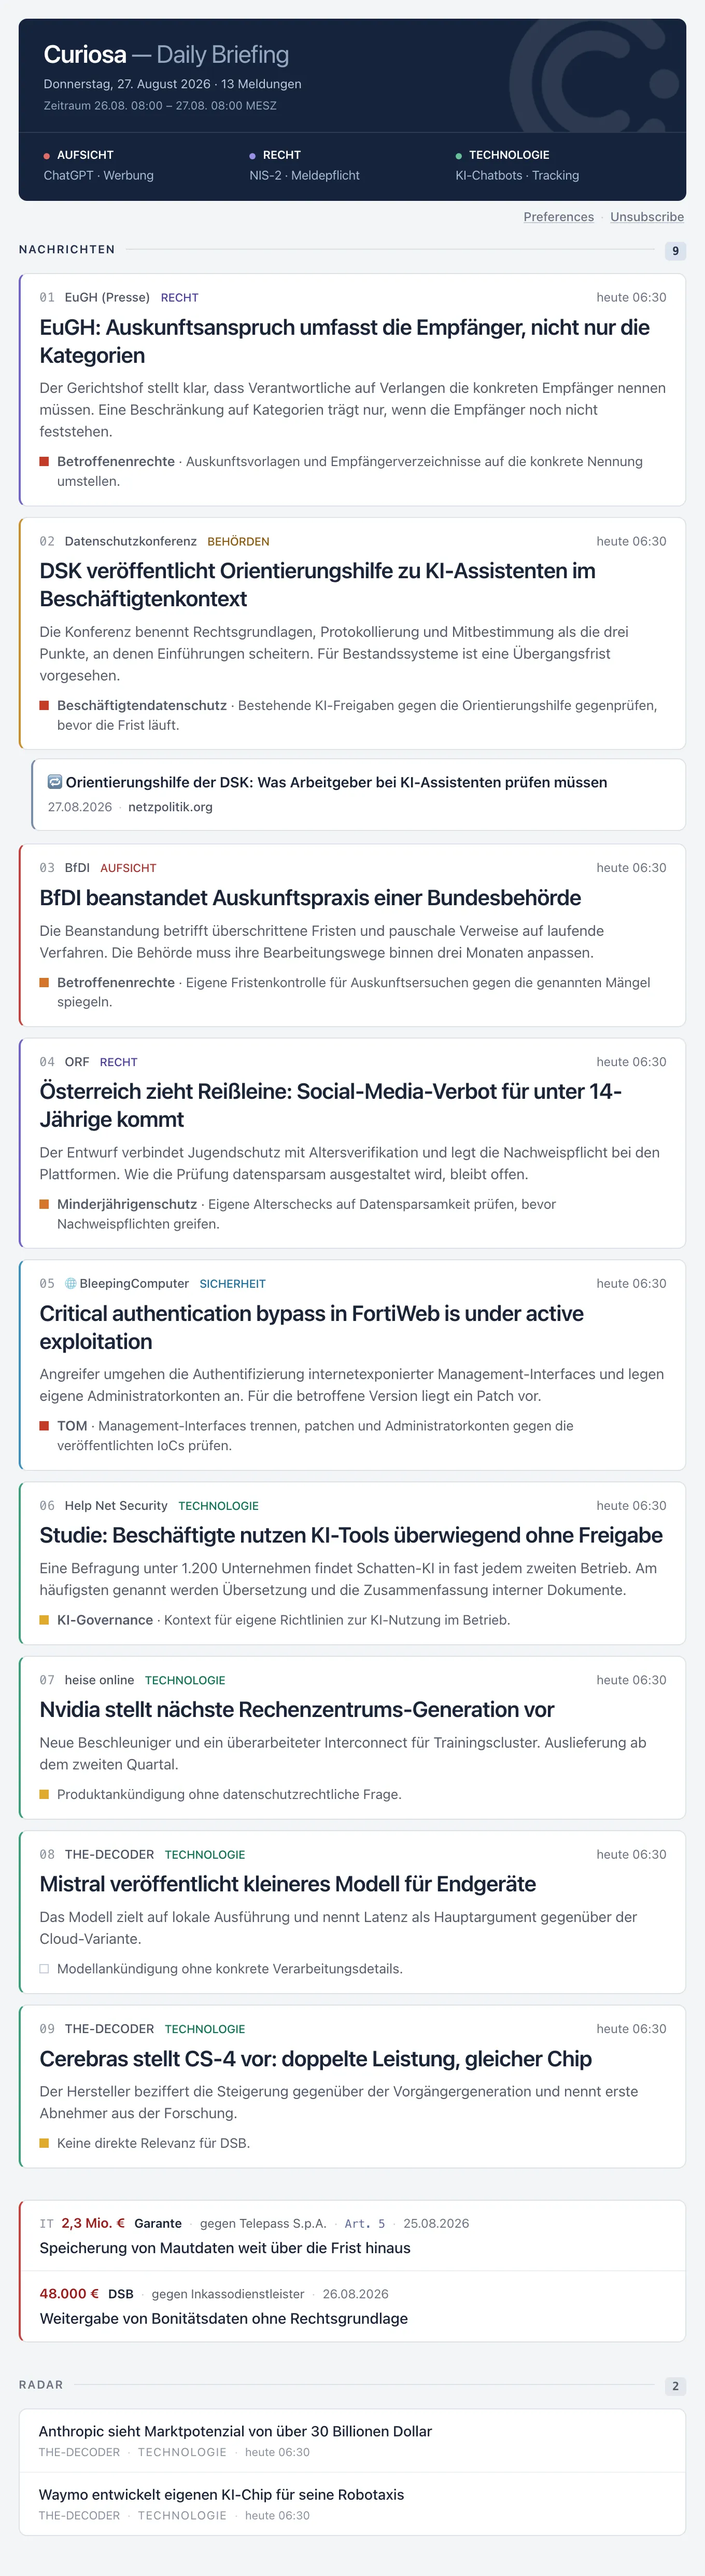
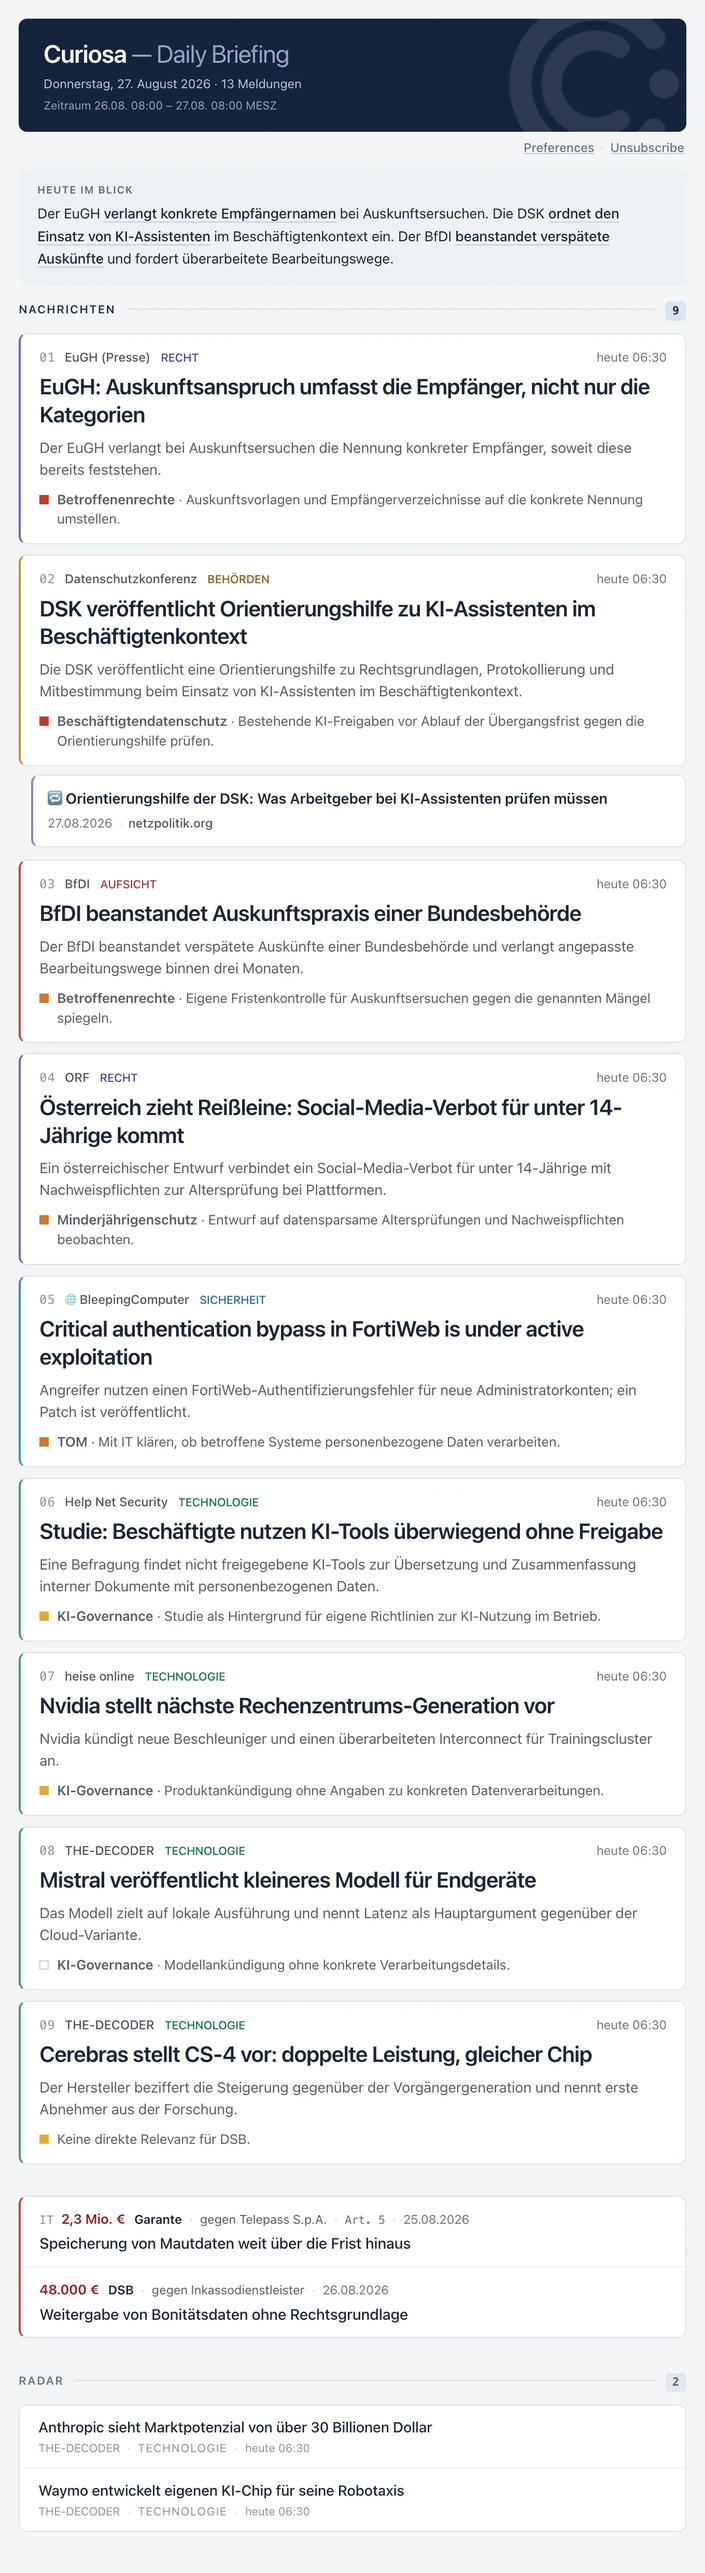
Refresh briefing samples and layout previews for Editorial

diff --git a/index.html b/index.html
@@ -50,38 +50,39 @@
                     </figcaption>
 
                     <div class="sample__sheet">
-                        <img class="sample__page" loading="lazy" decoding="async" src="/email-sample-daily.webp" width="1360" height="4388"
-                             alt="Tägliches Curiosa-Briefing: Kopfzeile mit drei Themen des Tages, ein Abschnitt mit Entscheidungen und Bußgeldern, fünf gerankte Nachrichtenkarten und darunter der kompakte Radar-Abschnitt.">
-                        <img class="sample__page sample__page--haze" loading="lazy" decoding="async" src="/email-sample-daily.webp" width="1360" height="4388"
+                        <img class="sample__page" loading="lazy" decoding="async" src="/email-sample-daily.webp" width="1360" height="3773"
+                             alt="Tägliches Curiosa-Briefing in Editorial: dunkle Kopfzeile mit Relevanzbalken, ein verlinkter Überblick, kompakte Entscheidungen und Bußgelder, gerankte Nachrichtenkarten mit Bedeutung für die Praxis und darunter Radar.">
+                        <img class="sample__page sample__page--haze" loading="lazy" decoding="async" src="/email-sample-daily.webp" width="1360" height="3773"
                              alt="" aria-hidden="true">
                     </div>
 
                     <p class="sample__legend">
-                        Oben die drei Themen des Tages, dann Entscheidungen und Bußgelder, dann die
-                        gerankten Karten. Karte 01 hat zwei weitere Quellen zur selben Meldung
-                        eingesammelt — Sie lesen sie einmal. Was heute keinen Datenschutzbezug hat,
-                        rutscht ans Ende ins Radar: eine Zeile statt einer Karte.
+                        Ein kurzer, verlinkter Überblick eröffnet den Tag. Darunter Entscheidungen
+                        und Bußgelder, dann die gerankten Karten mit ihrer Bedeutung für die Praxis.
+                        Die farbigen Markierungen zeigen die Wichtigkeit. Weitere Berichte zum selben
+                        Ereignis stehen direkt in der Karte. Meldungen ohne direkten Datenschutzbezug
+                        stehen unten kompakt im Radar.
                     </p>
                 </figure>
 
                 <figure class="sample sample--weekly">
                     <figcaption class="sample__cap">
                         <span class="sample__kind">Weekly Briefing</span>
-                        <span class="sample__when">zum Wochenende</span>
+                        <span class="sample__when">jeden Montag</span>
                     </figcaption>
 
                     <div class="sample__sheet">
-                        <img class="sample__page" loading="lazy" decoding="async" src="/email-sample-weekly.webp" width="1360" height="2548"
-                             alt="Wöchentliches Curiosa-Briefing: Kopfzeile, ein Block zur Aktivität der Aufsichtsbehörden in dieser Woche und fünf gerankte Nachrichtenkarten mit Wochentag und Handlungssignal.">
-                        <img class="sample__page sample__page--haze" loading="lazy" decoding="async" src="/email-sample-weekly.webp" width="1360" height="2548"
+                        <img class="sample__page" loading="lazy" decoding="async" src="/email-sample-weekly.webp" width="1360" height="2401"
+                             alt="Wöchentliches Curiosa-Briefing in Editorial: Kopfzeile mit Relevanzbalken, ein Block zur Aktivität der Aufsichtsbehörden und gerankte Nachrichtenkarten mit Datum, Wichtigkeit und Bedeutung für die Praxis.">
+                        <img class="sample__page sample__page--haze" loading="lazy" decoding="async" src="/email-sample-weekly.webp" width="1360" height="2401"
                              alt="" aria-hidden="true">
                     </div>
 
                     <p class="sample__legend">
-                        Der Rückblick öffnet mit der Aktivität der Aufsichtsbehörden und der
-                        Veränderung zur Vorwoche. Danach die stärksten Meldungen der Woche, jede mit
-                        Tag, Kategorie und einem Handlungssignal — Handeln, Beobachten oder
-                        zur Kenntnis.
+                        Jeden Montag der Rückblick auf die vergangene Woche: zuerst die Aktivität
+                        der Aufsichtsbehörden und die Veränderung zur Vorwoche, danach die stärksten
+                        Meldungen. Jede Karte zeigt Datum, Kategorie, Wichtigkeit und Bedeutung für
+                        die Praxis. Weitere Berichte zum selben Ereignis bleiben bei der Hauptmeldung.
                     </p>
                 </figure>
             </div>

diff --git a/site-i18n.js b/site-i18n.js
@@ -24,8 +24,11 @@
         "Every story with its recommendation, set calmly: a dark header with a relevance bar, the decisions in one card and plain cards.":
             "Jede Meldung mit ihrer Empfehlung, ruhig gesetzt: dunkler Kopf mit Relevanzbalken, die Entscheidungen in einer Karte und schlichte Karten.",
         "Classic": "Klassisch",
+        "The earlier layout: a coloured rail on every card and the decisions in a framed box.":
+            "Das bisherige Layout: eine farbige Leiste an jeder Karte und die Entscheidungen in einem Rahmen.",
+        // Accept the earlier API description until the refreshed catalog is deployed.
         "The earlier layout: a coloured rail on every card, topic columns in the header and the decisions in a framed box.":
-            "Das bisherige Layout: eine farbige Leiste an jeder Karte, Themenspalten im Kopf und die Entscheidungen in einem Rahmen.",
+            "Das bisherige Layout: eine farbige Leiste an jeder Karte und die Entscheidungen in einem Rahmen.",
         "Decisions & fines": "Entscheidungen & Bußgelder",
         "Where the block of decisions and fines sits in the issue.":
             "Wo der Block mit Entscheidungen und Bußgeldern in der Ausgabe steht.",

diff --git a/site.css b/site.css
@@ -541,19 +541,19 @@ body.home-page::before {
 
 /* Both sheets fade over roughly the same 150 px of their own capture, with
    the haze starting ~210 px up — the percentages differ only because the two
-   captures are not the same height (daily 2194, weekly 1274 CSS px). The
+   captures are not the same height (daily 1886.5, weekly 1200.5 CSS px). The
    daily numbers are also what keeps the Radar section on the readable side of
    the fade, so re-check them if the sample images are regenerated at a
    different length. */
 .sample--daily {
-    --sheet-fade: 93%;
-    --haze-in: 90%;
+    --sheet-fade: 92%;
+    --haze-in: 89%;
     --haze-full: 99%;
 }
 
 .sample--weekly {
-    --sheet-fade: 88%;
-    --haze-in: 83%;
+    --sheet-fade: 87.5%;
+    --haze-in: 82.5%;
     --haze-full: 98%;
 }
 

diff --git a/personalisation/index.html b/personalisation/index.html
@@ -102,7 +102,7 @@
                     </div>
                     <div class="preview-sheet">
                         <img id="preview-image" class="preview-page" src="/theme-editorial-before_news-strict.webp"
-                             width="1360" height="4607" alt="" decoding="async">
+                             width="1360" height="4735" alt="" decoding="async">
                     </div>
                     <p class="preview-note" data-i18n>
                         A sample issue rendered by the same code that sends yours — not your
